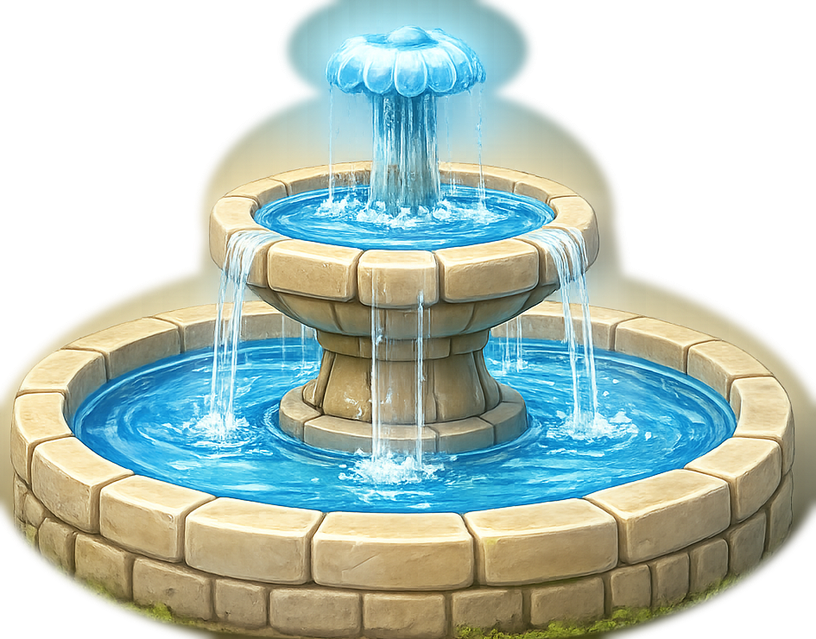
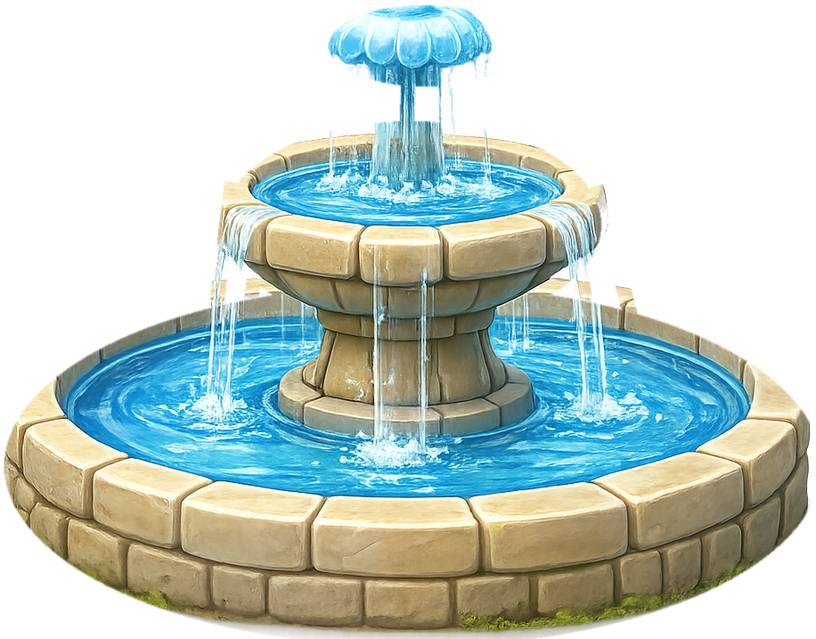
Polish Garden Gate tray and fountain cutout

diff --git a/src/game/GardenGateLocksScene.ts b/src/game/GardenGateLocksScene.ts
@@ -90,7 +90,6 @@ export class GardenGateLocksScene extends Phaser.Scene {
   private replayButton?: Phaser.GameObjects.Image;
   private replayPulse?: Phaser.Tweens.Tween;
   private replayTimer?: Phaser.Time.TimerEvent;
-  private trayGraphic?: Phaser.GameObjects.Graphics;
   private cueMode: GateCueMode = "color";
 
   constructor() {
@@ -126,7 +125,6 @@ export class GardenGateLocksScene extends Phaser.Scene {
     this.openedCount = 0;
     this.replayButton = undefined;
     this.replayPulse = undefined;
-    this.trayGraphic = undefined;
 
     this.drawGarden();
     this.createGates();
@@ -140,22 +138,6 @@ export class GardenGateLocksScene extends Phaser.Scene {
     graphics.fillStyle(0xbff2ff, 1);
     graphics.fillRect(0, 0, this.scale.width, this.scale.height);
     this.addCoverImage(BACKGROUND_ASSET_KEY, playArea.centerX, playArea.centerY, playArea.width, playArea.height, 1);
-    this.drawTray();
-  }
-
-  private drawTray(): void {
-    const { playArea } = this.layout;
-    const graphics = this.add.graphics();
-    const trayHeight = (this.layout.isPortrait ? 148 : 136) * this.layout.tokenScale;
-    const trayY = playArea.y + playArea.height * (this.layout.isPortrait ? 0.72 : 0.69);
-    const inset = 18 * this.layout.uiScale;
-
-    graphics.fillStyle(0xfff1ce, 0.76);
-    graphics.lineStyle(2 * this.layout.uiScale, 0xb87a35, 0.34);
-    graphics.fillRoundedRect(playArea.x + inset, trayY, playArea.width - inset * 2, trayHeight, 24 * this.layout.uiScale);
-    graphics.strokeRoundedRect(playArea.x + inset, trayY, playArea.width - inset * 2, trayHeight, 24 * this.layout.uiScale);
-    graphics.setDepth(10);
-    this.trayGraphic = graphics;
   }
 
   private createGates(): void {
@@ -344,7 +326,6 @@ export class GardenGateLocksScene extends Phaser.Scene {
     this.input.enabled = false;
     this.game.events.emit(GARDEN_GATE_LOCKS_LEVEL_COMPLETE_EVENT);
     this.sound.play(COMPLETION_APPLAUSE_ASSET_KEY, { volume: 0.72, seek: 0.1 });
-    this.fadeOutTray();
     this.drawFountain(playArea.centerX, fountainY);
     this.sparkle(playArea.centerX, fountainY - 28 * this.layout.uiScale, 18);
 
@@ -436,19 +417,6 @@ export class GardenGateLocksScene extends Phaser.Scene {
 
     this.fitImageToBox(visitor, maxWidth, maxHeight);
     return visitor;
-  }
-
-  private fadeOutTray(): void {
-    if (!this.trayGraphic) {
-      return;
-    }
-
-    this.tweens.add({
-      targets: this.trayGraphic,
-      alpha: 0,
-      duration: 260,
-      ease: "Sine.inOut",
-    });
   }
 
   private drawFountain(x: number, y: number): Phaser.GameObjects.Image {